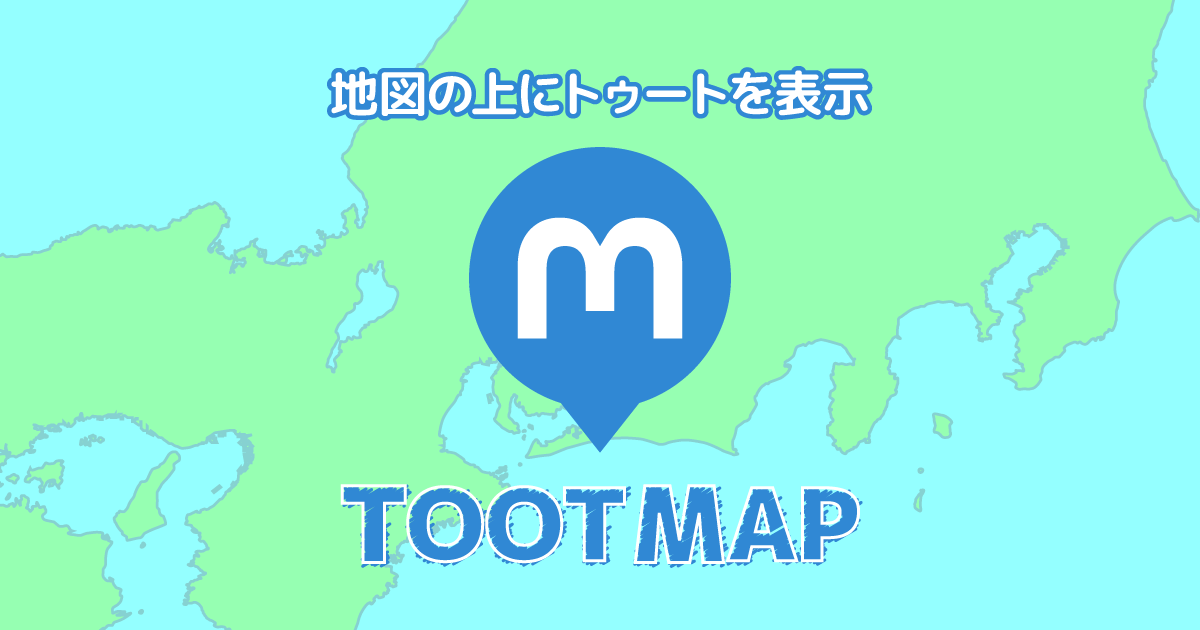
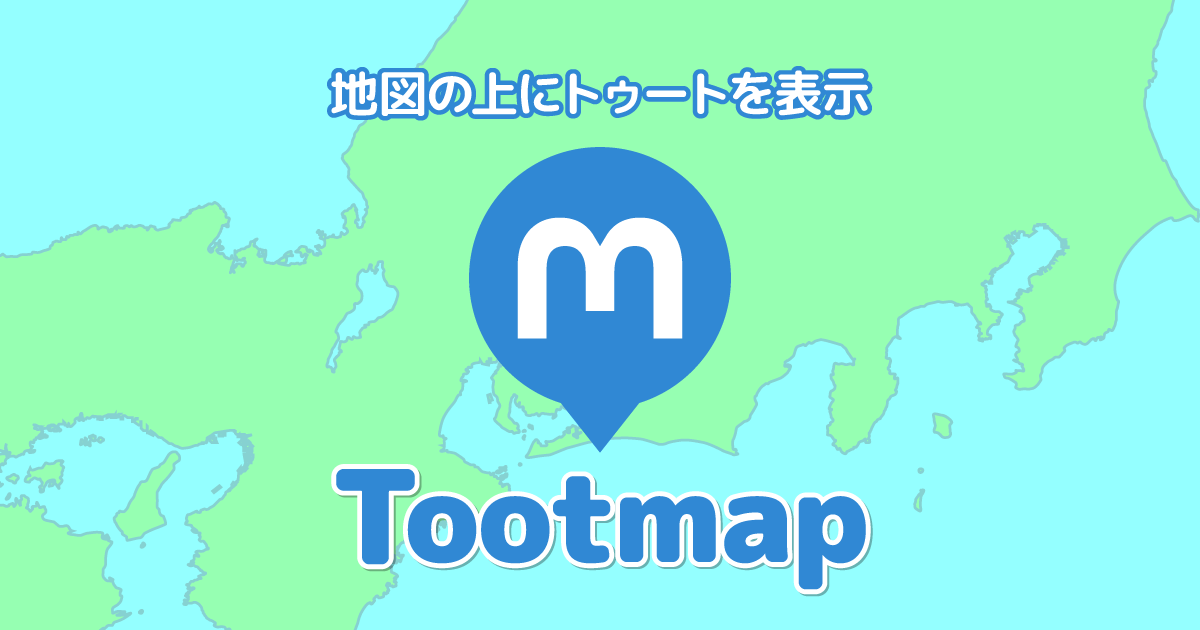
OGP画像変更、howtouseページ更新

Changed region(s): [[0.2775, 0.7238, 0.74, 0.9651]]

diff --git a/public/howtouse.html b/public/howtouse.html
@@ -1,8 +1,8 @@
 <!DOCTYPE html>
-<html>
+<html lang="ja">
   <head>
     <meta charset="utf-8">
-    <meta name="viewport" content="width=device-width, initial-scale=1">
+    <meta name="viewport" content="width=device-width, initial-scale=1, shrink-to-fit=no">
     <meta property="og:locale" content="ja_JP">
     <meta property="og:site_name" content="Tootmap">
     <meta property="og:title" content="Tootmap">
@@ -14,48 +14,84 @@
     <meta content="1200" property="og:image:width" />
     <meta content="630" property="og:image:height" />    
     <meta content="summary_large_image" property="twitter:card" />
-    <link href="./favicon.ico" rel="icon" type="image/x-icon">
-    <title>このページについて - Tootmap</title>
+    <meta name="description" content="マストドンのトゥートに位置情報を付加し、GoogleMapに表示します。">
+    <meta name="author" content="wakin">
+    <link rel="icon" href="./favicon.ico">
+    <title>Tootmapとは - Tootmap</title>
+
+    <!-- Bootstrap core CSS -->
     <link rel="stylesheet" href="https://maxcdn.bootstrapcdn.com/bootstrap/4.0.0-beta/css/bootstrap.min.css" integrity="sha384-/Y6pD6FV/Vv2HJnA6t+vslU6fwYXjCFtcEpHbNJ0lyAFsXTsjBbfaDjzALeQsN6M" crossorigin="anonymous">
     <link rel="stylesheet" href="https://maxcdn.bootstrapcdn.com/font-awesome/4.7.0/css/font-awesome.min.css" />
+
+    <!-- Custom styles for this template -->
+    <link href="narrow-jumbotron.css" rel="stylesheet">
+
     <link rel="manifest" href="/manifest.json">
   </head>
+
   <body>
-        <main role="main" class="container">
-            <div class="row">
-                <div class="col-sm-8">
-                    <div>
-                        <h1>このページについて</h1>
-                        <h2>このページは？</h2>
-                        <p>マストドンのトゥートに位置情報を付加し、GoogleMapに表示します。</p>
-                        <h2>使い方は？</h2>
-                        <ol>
-                            <li>メニューの https://[ マストドンのドメイン ]#[ ハッシュタグ ] を入力してください。</li>
-                            <li>地図中をクリック（タップ）し、「この位置についてトゥートする」を選択してください。</li>
-                            <li>位置情報の付加されたマストドンの投稿画面が開きます。</li>
-                        </ol>
-                        <h2>現在位置でトゥート</h2>
-                        <p>メニューの「現在位置を表示」を選択すると端末の現在位置が地図上に表示されます。</p>
-                        <h2>利用される上での注意点</h2>
-                        <ul>
-                            <li>公開範囲を「公開」で投稿されたものが表示されます。</li>
-                            <li>投稿はマストドンのver.1.6以上が対応しています。</li>
-                            <li><strong>位置情報は個人情報と直結する可能性のある情報になります。トゥートされる際はその点を十分ご留意ください。</strong>トゥートを削除することでマップの表示は消えますが、外部の検索エンジンに位置情報と含んだトゥートがキャッシュされて残る場合があります。</li>
-                        </ul>
-                        <h2>Githubでソースを公開しています</h2>
-                        <p><a target="_blank" href="https://github.com/wakin-/Tootmap">https://github.com/wakin-/Tootmap</a></p>
-                        <p>こうしてみては？ 等お待ちしています！</p>
-                        <h2>作成者</h2>
-                        <p><a href="https://biwakodon.com/@wakin" target="_blank">@wakin</a></p>
-                        <h2>協力者</h2>
-                        <p><a href="https://mastodos.com/@7_nana" target="_blank">@7_nana</a>（画像、アイコン）</p>
-                    </div>
-                </div>
-            </div>
-        </main>
-    <script src="https://code.jquery.com/jquery-3.2.1.min.js"></script>
-    <script src="https://cdnjs.cloudflare.com/ajax/libs/popper.js/1.11.0/umd/popper.min.js" integrity="sha384-b/U6ypiBEHpOf/4+1nzFpr53nxSS+GLCkfwBdFNTxtclqqenISfwAzpKaMNFNmj4" crossorigin="anonymous"></script>    
-    <script src="https://maxcdn.bootstrapcdn.com/bootstrap/4.0.0-beta/js/bootstrap.min.js" integrity="sha384-h0AbiXch4ZDo7tp9hKZ4TsHbi047NrKGLO3SEJAg45jXxnGIfYzk4Si90RDIqNm1" crossorigin="anonymous"></script>
-    <script src="./sw.js"></script>
+
+    <div class="container">
+      <header class="header clearfix">
+        <h3 class="text-muted"><img src="pin_icon.png" alt="ロゴ" width="30" />Tootmap</h3>
+      </header>
+
+      <!-- Jumbotron -->
+      <div class="jumbotron">
+        <h1><i class="fa fa-map" aria-hidden="true"></i>Tootmapとは</h1>
+        <p class="lead">マストドンのトゥートに位置情報を付加し、GoogleMapに表示します。</p>
+      </div>
+
+      <!-- Example row of columns -->
+      <div class="row">
+        <div class="col-lg-12">
+          <h2><i class="fa fa-map-marker" aria-hidden="true"></i>使い方</h2>
+            <ol>
+             <li>マップ左上にある「ドメイン#ハッシュタグ」をクリック（タップ）してメニューを開きます</li>
+             <li>メニューの中の<mark>https://[ マストドンのドメイン ]#[ ハッシュタグ ]</mark>をそれぞれ入力します</li>
+             <li>メニューの中の「マップに戻る」をクリック（タップ）します</li>
+             <li>マップの任意の位置をクリック（タップ）し、「この位置についてトゥートする」を選択します</li>
+             <li>位置情報が付加されたマストドンの投稿画面が開きます</li>
+           </ol>
+        </div>
+        <div class="col-lg-12">
+          <h2><i class="fa fa-street-view" aria-hidden="true"></i>現在位置でトゥート</h2>
+          <ol>
+           <li>マップ左上にある「ドメイン#ハッシュタグ」をクリック（タップ）してメニューを開きます</li>
+           <li>メニュー中の「現在位置を表示」を選択します</li>
+           <li>現在位置がマップ上に表示されます</li>
+          </ol>
+       </div>
+        <div class="col-lg-12">
+          <h2><i class="fa fa-exclamation-triangle" aria-hidden="true"></i>利用上の注意点</h2>
+          <ul>
+           <li>投稿のプライバシー設定を「公開」にしてトゥートされたものが表示されます</li>
+           <li>マストドンのver.1.6以上に対応しています</li>
+           <li><strong>位置情報は個人情報と直結する可能性があります。トゥートされる際はご注意ください。</strong>トゥートを削除するとマップの表示は消えますが、外部の検索エンジンに位置情報を含んだトゥートがキャッシュされて残る場合があります</li>
+          </ul>
+        </div>
+        <div class="col-lg-12">
+         <h2><i class="fa fa-code" aria-hidden="true"></i>ソースコード</h2>
+         <p>GitHubで公開しています。</p>
+         <p><i class="fa fa-github" aria-hidden="true"></i><a target="_blank" href="https://github.com/wakin-/Tootmap">https://github.com/wakin-/Tootmap<i class="fa fa-external-link" aria-hidden="true"></i></a></p>
+         <p>こうしてみては？等お待ちしています！</p>
+        </div>
+        <div class="col-lg-12">
+         <h2><i class="fa fa-user-circle-o" aria-hidden="true"></i>作成者</h2>
+         <p><a href="https://biwakodon.com/@wakin" target="_blank">@wakin<i class="fa fa-external-link" aria-hidden="true"></i></a></p>
+        </div>
+        <div class="col-lg-12">
+         <h2><i class="fa fa-users" aria-hidden="true"></i>協力者</h2>
+         <p><a href="https://mastodos.com/@7_nana" target="_blank">@7_nana<i class="fa fa-external-link" aria-hidden="true"></i></a>（画像、アイコン）</p>
+        </div>
+      </div>
+
+      <!-- Site footer -->
+      <footer class="footer">
+        <p>&copy; Tootmap 2017-</p>
+      </footer>
+
+    </div> <!-- /container -->
+
   </body>
 </html>

diff --git a/public/narrow-jumbotron.css b/public/narrow-jumbotron.css
@@ -1,0 +1,157 @@
+/* Space out content a bit */
+body {
+  padding-top: 1.5rem;
+  padding-bottom: 1.5rem;
+}
+
+/* Everything but the jumbotron gets side spacing for mobile first views */
+.header,
+.marketing,
+.footer {
+  padding-right: 1rem;
+  padding-left: 1rem;
+}
+
+/* Custom page header */
+.header {
+  padding-bottom: 1rem;
+  border-bottom: .05rem solid #e5e5e5;
+}
+
+/* Make the masthead heading the same height as the navigation */
+.header h3 {
+  margin-top: 0;
+  margin-bottom: 0;
+  line-height: 3rem;
+}
+
+/* Custom page footer */
+.footer {
+  padding-top: 1.5rem;
+  color: #777;
+  border-top: .05rem solid #e5e5e5;
+}
+
+/* Customize container */
+@media (min-width: 48em) {
+  .container {
+    max-width: 46rem;
+  }
+}
+.container-narrow > hr {
+  margin: 2rem 0;
+}
+
+/* Main marketing message and sign up button */
+.jumbotron {
+  text-align: center;
+  border-bottom: .05rem solid #e5e5e5;
+}
+.jumbotron .btn {
+  padding: .75rem 1.5rem;
+  font-size: 1.5rem;
+}
+
+/* Supporting marketing content */
+.marketing {
+  margin: 3rem 0;
+}
+.marketing p + h4 {
+  margin-top: 1.5rem;
+}
+
+/* Responsive: Portrait tablets and up */
+@media screen and (min-width: 48em) {
+  /* Remove the padding we set earlier */
+  .header,
+  .marketing,
+  .footer {
+    padding-right: 0;
+    padding-left: 0;
+  }
+
+  /* Space out the masthead */
+  .header {
+    margin-bottom: 2rem;
+  }
+
+  /* Remove the bottom border on the jumbotron for visual effect */
+  .jumbotron {
+    border-bottom: 0;
+  }
+}
+
+/* Customize */
+body {
+  font-family: 'Avenir','Helvetica Neue','Helvetica','Arial','Hiragino Sans','ヒラギノ角ゴシック',YuGothic,'Yu Gothic','メイリオ', Meiryo,'ＭＳ Ｐゴシック','MS PGothic';
+  letter-spacing: 0.05em;
+}
+
+.jumbotron {
+  color: #fff;
+  background-color: #3088D4;
+}
+
+h1{
+  position: relative;
+  display: inline-block;
+  margin-bottom: 1em;
+  text-shadow: 2px 4px 3px rgba(0,0,0,0.3);
+}
+
+h1:before {
+  content: '';
+  position: absolute;
+  bottom: -15px;
+  display: inline-block;
+  width: 60px;
+  height: 5px;
+  left: 50%;
+  -moz-transform: translateX(-50%);
+  -webkit-transform: translateX(-50%);
+  -ms-transform: translateX(-50%);
+  transform: translateX(-50%);
+  background-color: #ffcc00;
+  border-radius: 2px;
+}
+
+.lead {
+  font-size: 1.1rem;
+}
+
+h2 {
+  font-size: 1.5rem;
+  margin: 0 0 0.5em 0;
+  padding: 0 0 0.2em 0;
+  border-bottom: double 5px #ccc;
+}
+
+h3 img {
+  margin: 0 7px 0 0;
+}
+
+p, ul, ol {
+  line-height: 1.5em;
+}
+
+ul li, ol li {
+  margin: 0 0 0.5em 0;
+}
+
+.col-lg-12 {
+  margin: 0 0 1em 0;
+}
+
+.mark, mark {
+  padding: 2px 5px;
+  background-color: #ffcc00;
+}
+
+b, strong {
+  font-weight: normal;
+  color: #ff0000;
+}
+
+i.fa {
+  margin: 0 5px 0 0;
+}
